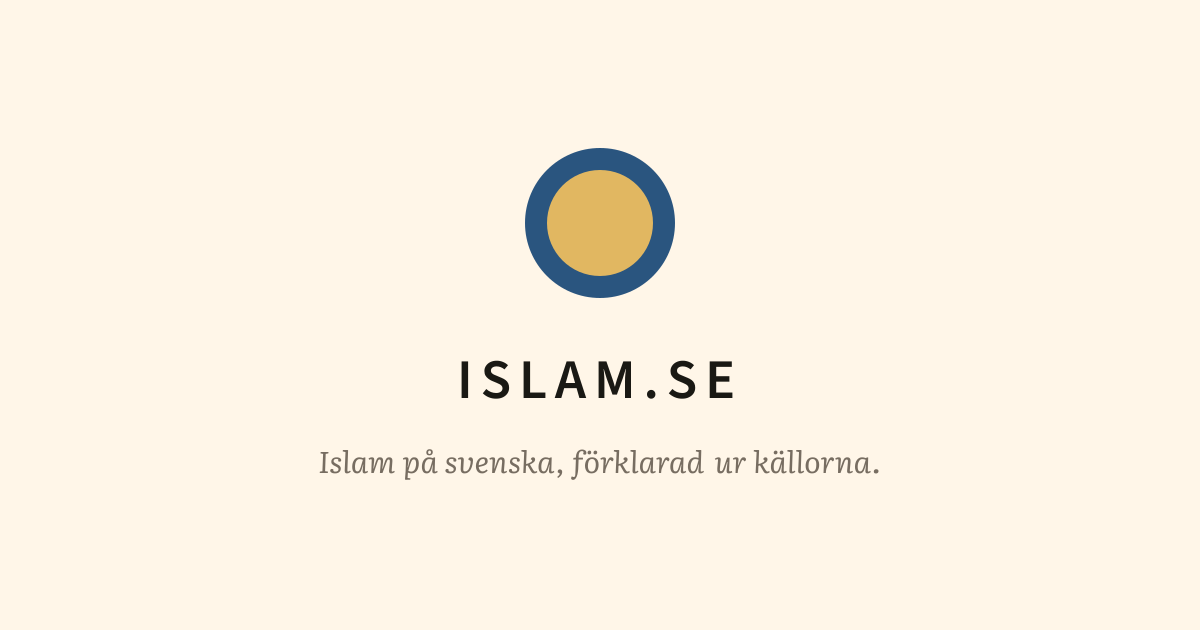
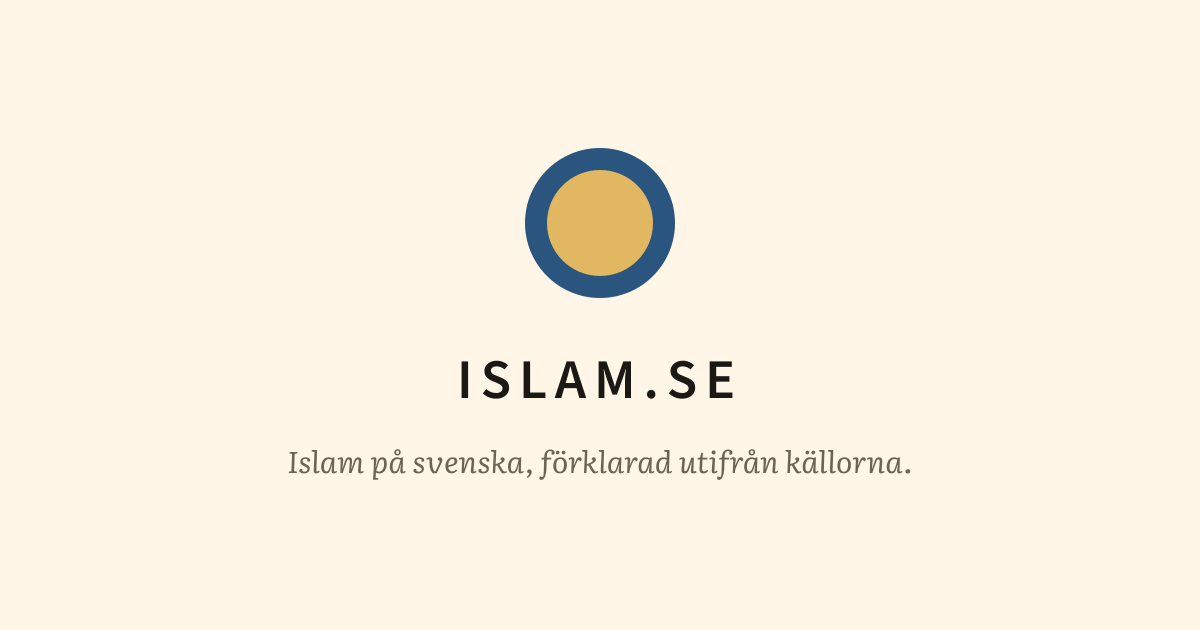
fix(web): the social card says »förklarad utifrån källorna«, like the footer and /om
The site's line moved from »ur« to »utifrån« in September; the card, also the
README's hero, was drawn before that. Regenerated with
generate-brand-assets.mjs; only the line's pixels change.

Changed region(s): [[0.2467, 0.6937, 0.7708, 0.754]]

diff --git a/README.md b/README.md
@@ -1,6 +1,6 @@
 <p align="center">
   <a href="https://islam.se">
-    <img src="apps/web/public/og-default.png" alt="The islam.se social card: a gold sun in a blue ring over the name ISLAM.SE and the line »Islam på svenska, förklarad ur källorna.« on cream paper." width="760">
+    <img src="apps/web/public/og-default.png" alt="The islam.se social card: a gold sun in a blue ring over the name ISLAM.SE and the line »Islam på svenska, förklarad utifrån källorna.« on cream paper." width="760">
   </a>
 </p>
 
